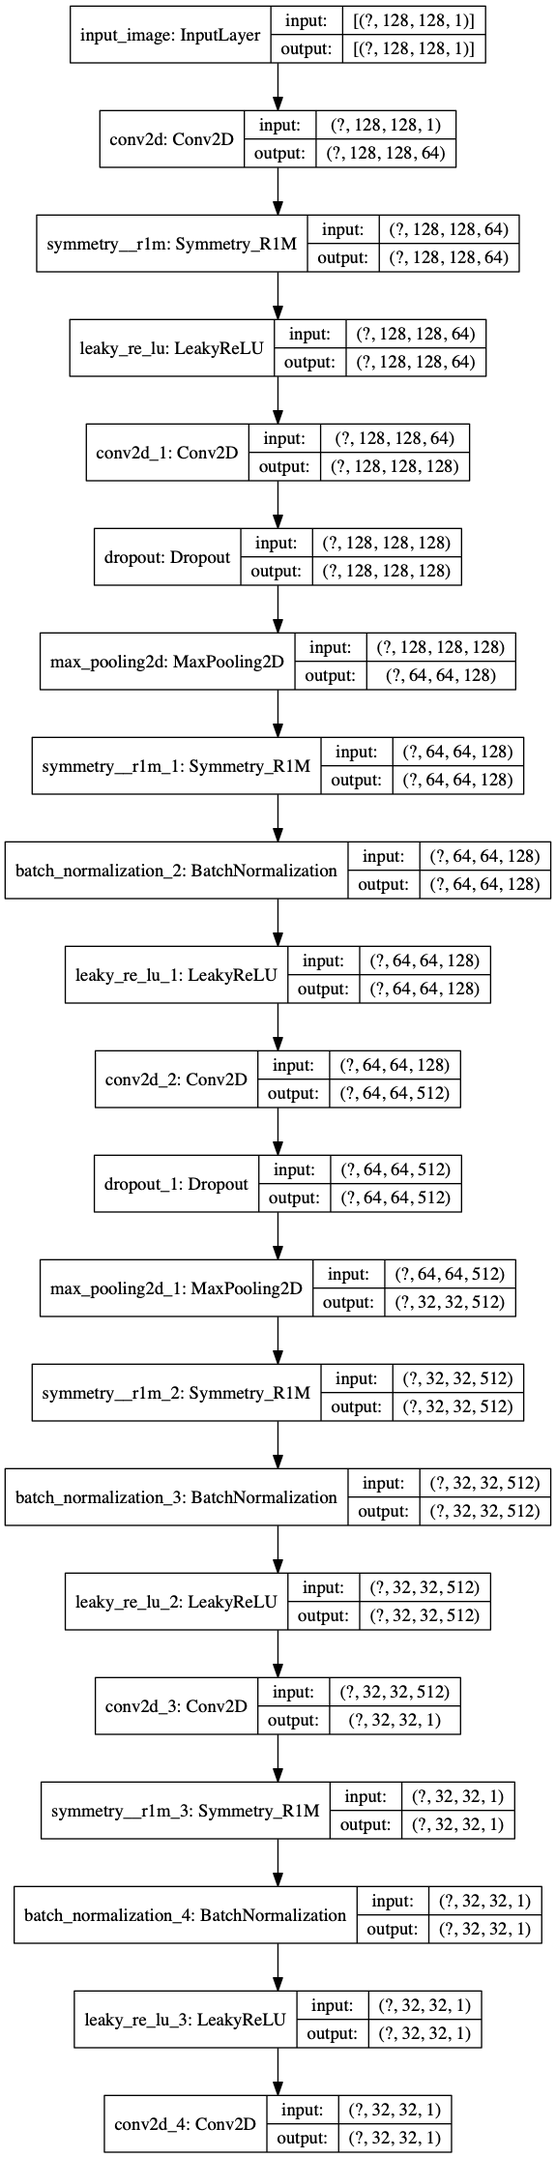
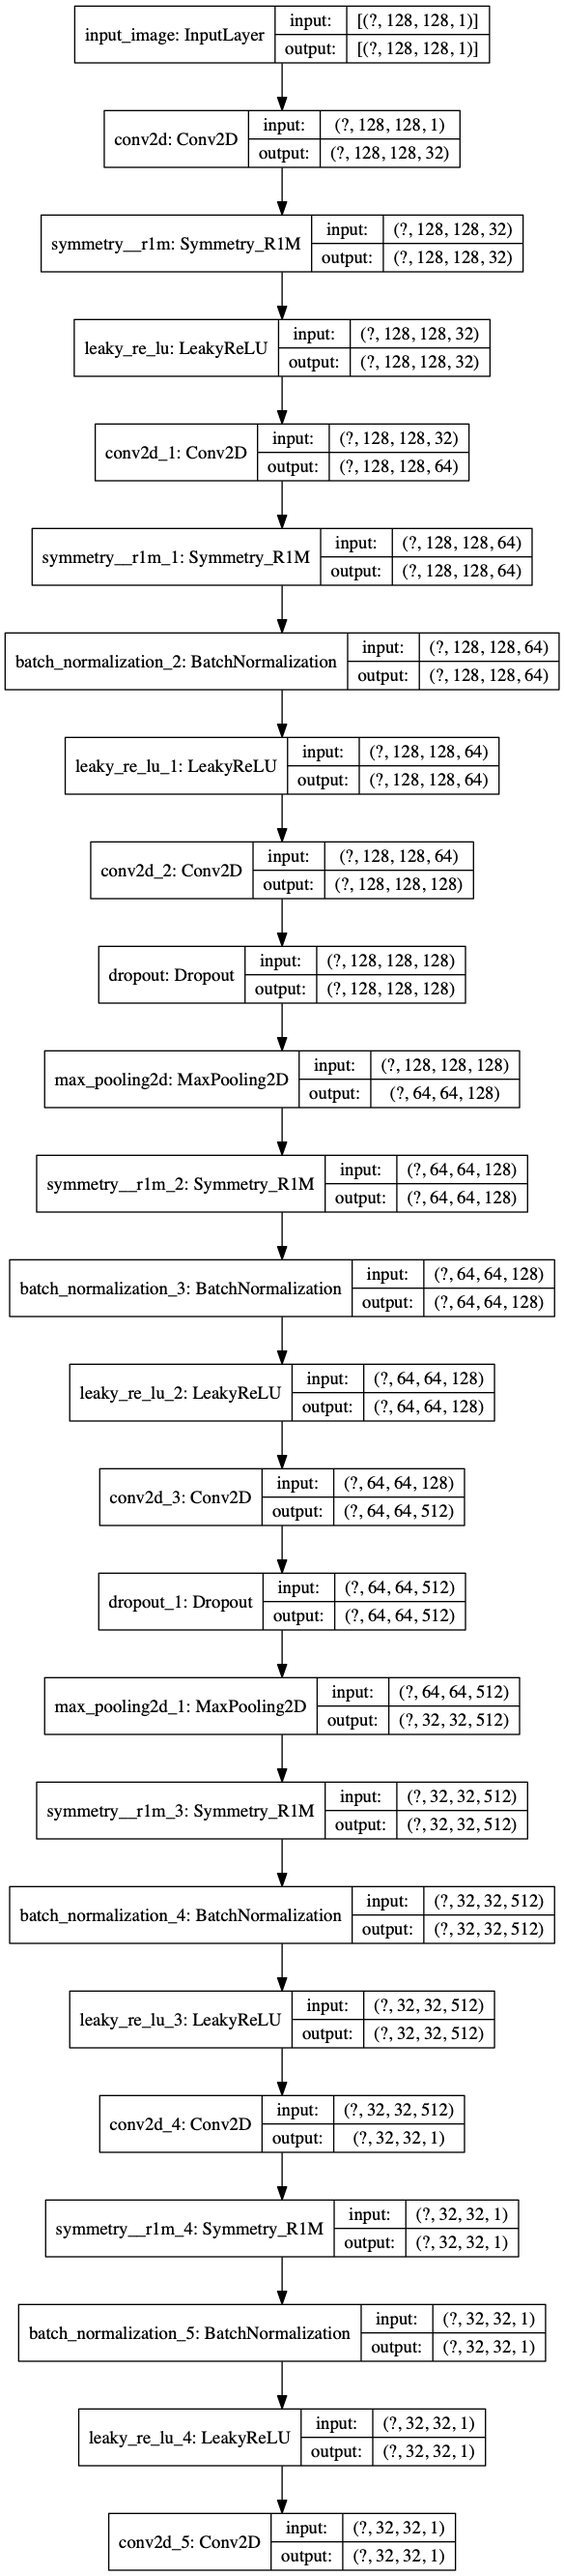
discriminator

Changed region(s): [[0.0, 0.0, 1.0, 1.0], [0.0296, 0.3402, 0.0591, 0.3711]]

diff --git a/model.py b/model.py
@@ -219,10 +219,15 @@ def make_discriminator_model(len_low_size=16, scale=4):
     inp = tf.keras.layers.Input(shape=[len_high_size, len_high_size, 1], name='input_image')
 
     #zero_pad = tf.keras.layers.ZeroPadding2D()(inp)
-    conv = tf.keras.layers.Conv2D(64, 3, strides=1, padding='same', kernel_initializer=tf.keras.initializers.RandomNormal(mean=0.01, stddev=0.1), use_bias=False)(inp)
+    conv = tf.keras.layers.Conv2D(32, 3, strides=1, padding='same', kernel_initializer=tf.keras.initializers.RandomNormal(mean=0.01, stddev=0.1), use_bias=False)(inp)
     #pool = tf.keras.layers.AveragePooling2D()(conv)
     sym = Symmetry_R1M()(conv)
     leaky_relu = tf.keras.layers.LeakyReLU(0.2)(sym)
+
+    conv = tf.keras.layers.Conv2D(64, 3, strides=1, padding='same', kernel_initializer=tf.keras.initializers.RandomNormal(mean=0.01, stddev=0.1), use_bias=False)(leaky_relu)
+    sym = Symmetry_R1M()(conv)
+    batchnorm = tf.keras.layers.BatchNormalization()(sym)
+    leaky_relu = tf.keras.layers.LeakyReLU(0.2)(batchnorm)
 
     conv = tf.keras.layers.Conv2D(128, 3, strides=1, padding='same', kernel_initializer=tf.keras.initializers.RandomNormal(mean=0.01, stddev=0.1), use_bias=False)(leaky_relu)
     conv = tf.keras.layers.Dropout(0.1)(conv)
@@ -411,12 +416,12 @@ def train(gen, dis, dataset, epochs, len_low_size, scale, test_dataset=None):
         start = time.time()
         for i, (low_m, high_m) in enumerate(dataset):
             if(epoch<=2000):
-                loss_weights = [0.0, 1.0, 10.0]
+                loss_weights = [0.0, 10.0, 10.0]
             else:
-                loss_weights = [1.0, 10.0, 0.0]
+                loss_weights = [1.0, 10.0, 10.0]
 
             #if(epoch<450 or (epoch>=1050 and epoch%150<40)):
-            if(epoch<1000 or epoch>=2000):
+            if(epoch<500 or epoch>=2000):
                 train_step_generator(gen, dis, 
                                     tf.dtypes.cast(low_m, tf.float32), tf.dtypes.cast(high_m, tf.float32),
                                     [loss_filter_low, loss_filter_high], loss_weights,
